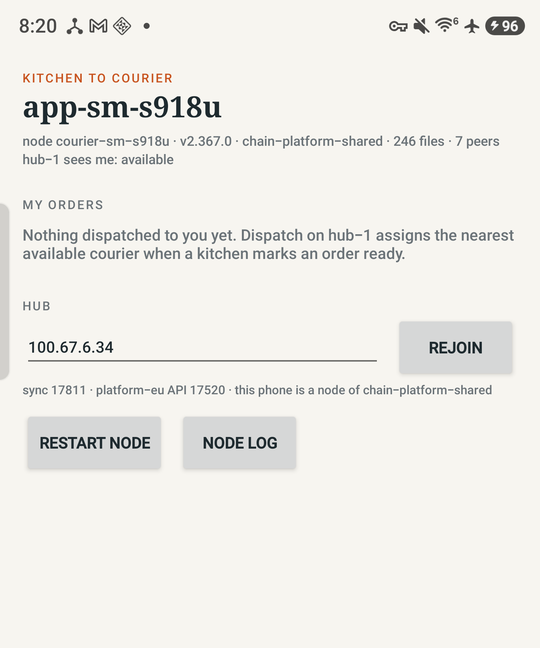
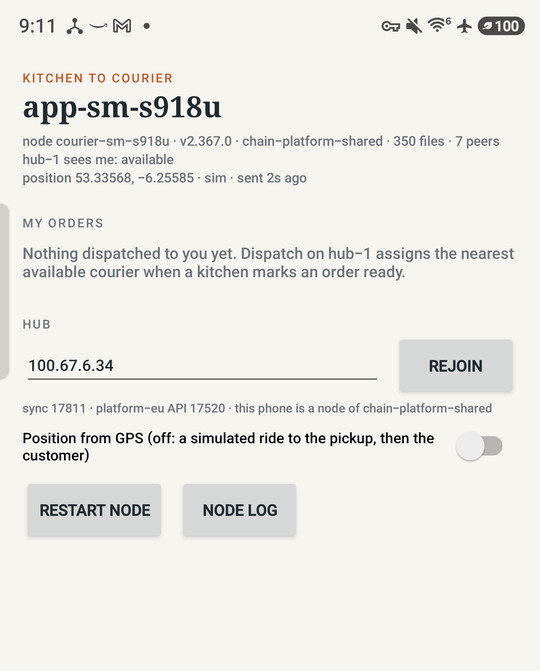
The courier's position every 5 seconds, so a customer can track it
The couriers document's location is "a geo point, set by courier app" in
the build sheet, and nothing set it. The foreground service now writes it
every 5 s onto platform-eu — the same document dispatch runs its
nearest-courier query on, so the position feeds assignment as well as
tracking. Two modes: a simulated ride at 8 m/s toward the order's next
point (the pickup while ready, the customer once collected, back toward
the hub area when idle), the default because the fleet's addresses are in
Dublin; or the phone's GPS fixes behind a switch and the location
permission. The position survives a restart, and the card shows how far
the courier still has to go.

Measured against the MVP fleet: 40 m every 5 s, each fix 5 s old at the
platform, read back by the MVP's new sims/track.mjs.

Claude-Session: https://claude.ai/code/session_01JTEEzAK5s1sBBuDzpcijis

diff --git a/app/src/main/java/ie/unidatum/courier/Courier.kt b/app/src/main/java/ie/unidatum/courier/Courier.kt
@@ -17,7 +17,15 @@ import java.time.Instant
  */
 data class MenuItem(val name: String, val priceCents: Long)
 
-class Courier(ctx: Context) {
+class Courier private constructor(ctx: Context) {
+    companion object {
+        @Volatile private var one: Courier? = null
+        /** One courier per process: the activity and the service share its state (position, the orders last read). */
+        fun get(ctx: Context): Courier = one ?: synchronized(this) { one ?: Courier(ctx.applicationContext).also { one = it } }
+        /** Where the app starts the courier in the demo: hub-1's pickup area, so dispatch's $near finds it first. */
+        val HOME = doubleArrayOf(-6.32, 53.35)
+        const val SIM_SPEED_MPS = 8.0   // about 29 km/h, a brisk e-bike; the demo's clock
+    }
     val prefs = ctx.getSharedPreferences("courier", Context.MODE_PRIVATE)
     var hubHost: String
         get() = prefs.getString("hubHost", "100.67.6.34")!!
@@ -25,6 +33,10 @@ class Courier(ctx: Context) {
     val hubSyncPort get() = prefs.getInt("hubSyncPort", 17811)
     val hubEuPort get() = prefs.getInt("hubEuPort", 17520)
     val hubId = "hub-1"
+    /** "sim" (default: the ride is simulated at SIM_SPEED_MPS toward the pickup, then the customer) or "gps" (the phone's fixes). */
+    var locationMode: String
+        get() = prefs.getString("locMode", "sim")!!
+        set(v) { prefs.edit().putString("locMode", v).apply() }
     /** The courier's id: app-<model>. The MVP's simulated couriers are hub-N-cNN; the sim leaves other ids' orders alone. */
     val id: String = "app-" + android.os.Build.MODEL.lowercase().replace(Regex("[^a-z0-9]+"), "-").trim('-')
     val local = Api("http://127.0.0.1:${NodeService.UI_PORT}")
@@ -36,8 +48,55 @@ class Courier(ctx: Context) {
 
     fun now(): String = Instant.now().toString()
 
-    /** Where the courier is: fixed at hub-1's pickup point in this demo (no GPS); what the couriers document carries. */
-    val location: JSONObject get() = JSONObject().put("type", "Point").put("coordinates", JSONArray().put(-6.32).put(53.35))
+    /** Where the courier is now, [lon, lat]: the simulated ride's point or the last GPS fix. Kept across restarts,
+     *  so reinstalling the app mid-ride does not teleport the courier back to the hub. */
+    @Volatile var lon = prefs.getFloat("lon", HOME[0].toFloat()).toDouble()
+    @Volatile var lat = prefs.getFloat("lat", HOME[1].toFloat()).toDouble()
+    private fun remember() { prefs.edit().putFloat("lon", lon.toFloat()).putFloat("lat", lat.toFloat()).apply() }
+    val location: JSONObject get() = JSONObject().put("type", "Point").put("coordinates", JSONArray().put(lon).put(lat))
+    /** The orders as last read, for the ride to know where it is going. */
+    @Volatile var lastOrders: List<JSONObject> = emptyList()
+    @Volatile var lastPublished = 0L
+    @Volatile var publishError: String? = null
+
+    /** A GPS fix from the phone (gps mode only). */
+    fun fix(newLon: Double, newLat: Double) { lon = newLon; lat = newLat; remember() }
+
+    /** The simulated ride: one 5-second step toward where the order says to go — the pickup while ready, the customer once
+     *  collected, nowhere when idle. Straight line at SIM_SPEED_MPS; a courier's route is the maps app's business. */
+    fun rideStep(seconds: Double) {
+        val o = lastOrders.sortedBy { it.optString("ready_at") }.firstOrNull()
+        // With an order: the pickup while it is ready, the customer once collected. Without one: back toward the hub's
+        // area, which is where a courier waits between deliveries — and where dispatch looks for the nearest one.
+        val to = o?.let { (if (it.optString("status") == "ready") it.optJSONObject("pickup") else it.optJSONObject("delivery"))?.optJSONObject("location")?.optJSONArray("coordinates") }
+        val tLon = to?.optDouble(0) ?: HOME[0]; val tLat = to?.optDouble(1) ?: HOME[1]
+        val mPerDegLat = 111_320.0; val mPerDegLon = mPerDegLat * Math.cos(Math.toRadians(lat))
+        val dx = (tLon - lon) * mPerDegLon; val dy = (tLat - lat) * mPerDegLat
+        val dist = Math.hypot(dx, dy)
+        val step = SIM_SPEED_MPS * seconds
+        if (dist <= step) { lon = tLon; lat = tLat } else {
+            lon += dx / dist * step / mPerDegLon
+            lat += dy / dist * step / mPerDegLat
+        }
+        remember()
+    }
+
+    /** The position onto the couriers document on platform-eu: what dispatch queries and what a customer app reads to
+     *  draw the courier. Latest wins; a missed write is a missed position, nothing to queue. */
+    fun publishLocation() {
+        try {
+            hubEu.update("couriers", JSONObject().put("_id", id), JSONObject().put("location", location).put("updated_at", now()))
+            lastPublished = System.currentTimeMillis(); publishError = null
+        } catch (e: Exception) { publishError = e.message }
+    }
+
+    /** Metres from the courier to the point on the order it is heading for, for the card. */
+    fun metresToTarget(o: JSONObject): Double? {
+        val to = (if (o.optString("status") == "ready") o.optJSONObject("pickup") else o.optJSONObject("delivery"))
+            ?.optJSONObject("location")?.optJSONArray("coordinates") ?: return null
+        val mPerDegLat = 111_320.0; val mPerDegLon = mPerDegLat * Math.cos(Math.toRadians(lat))
+        return Math.hypot((to.optDouble(0) - lon) * mPerDegLon, (to.optDouble(1) - lat) * mPerDegLat)
+    }
 
     /** Peer with the hub's shared node and follow the orders collection. Idempotent. */
     fun join(): String {
@@ -69,7 +128,9 @@ class Courier(ctx: Context) {
     /** Orders dispatched to me that are not delivered yet, read from the phone's own copy. */
     fun myOrders(): List<JSONObject> {
         local.ensureLocal("platform_orders.")
-        return local.find("platform_orders", JSONObject().put("courier_id", id).put("status", JSONObject().put("\$in", JSONArray().put("ready").put("collected"))), 20)
+        val o = local.find("platform_orders", JSONObject().put("courier_id", id).put("status", JSONObject().put("\$in", JSONArray().put("ready").put("collected"))), 20)
+        lastOrders = o
+        return o
     }
 
     fun collected(orderId: String) {

diff --git a/app/src/main/java/ie/unidatum/courier/NodeService.kt b/app/src/main/java/ie/unidatum/courier/NodeService.kt
@@ -7,7 +7,12 @@ import android.app.PendingIntent
 import android.app.Service
 import android.content.Context
 import android.content.Intent
+import android.location.Location
+import android.location.LocationListener
+import android.location.LocationManager
+import android.os.Handler
 import android.os.IBinder
+import android.os.Looper
 import android.util.Log
 import java.io.File
 import java.util.concurrent.atomic.AtomicReference
@@ -42,9 +47,51 @@ class NodeService : Service() {
     override fun onBind(intent: Intent?): IBinder? = null
 
     override fun onStartCommand(intent: Intent?, flags: Int, startId: Int): Int {
-        startForeground(1, notification())
+        // Data-sync always; the location type only once the person has granted the permission (Android 14+ refuses it otherwise).
+        val hasLoc = checkSelfPermission(android.Manifest.permission.ACCESS_FINE_LOCATION) == android.content.pm.PackageManager.PERMISSION_GRANTED
+        val type = android.content.pm.ServiceInfo.FOREGROUND_SERVICE_TYPE_DATA_SYNC or
+            (if (hasLoc) android.content.pm.ServiceInfo.FOREGROUND_SERVICE_TYPE_LOCATION else 0)
+        startForeground(1, notification(), type)
         if (!running()) Thread { run() }.start()
+        if (!positionLoop) { positionLoop = true; Thread { positions() }.start() }
         return START_STICKY
+    }
+
+    @Volatile private var positionLoop = false
+    private var gps: LocationListener? = null
+
+    /** Every 5 s: where the courier is, onto the couriers document. Simulated by default — the ride moves toward the order's
+     *  next point — or the phone's GPS fixes when the mode says so. Runs as long as the service does, screen off included. */
+    private fun positions() {
+        val c = Courier.get(this)
+        var mode = ""
+        while (positionLoop) {
+            try {
+                if (c.locationMode != mode) { mode = c.locationMode; setGps(mode == "gps", c) ; logLine("position: $mode") }
+                if (mode == "sim") { if (c.joined) try { c.myOrders() } catch (_: Exception) {}; c.rideStep(5.0) }
+                if (c.registered) c.publishLocation()
+            } catch (e: Exception) { logLine("position: ${e.message}") }
+            Thread.sleep(5000)
+        }
+    }
+
+    private fun setGps(on: Boolean, c: Courier) {
+        val lm = getSystemService(LocationManager::class.java)
+        gps?.let { lm.removeUpdates(it); gps = null }
+        if (!on) return
+        if (checkSelfPermission(android.Manifest.permission.ACCESS_FINE_LOCATION) != android.content.pm.PackageManager.PERMISSION_GRANTED) {
+            logLine("position: gps mode needs the location permission; staying where the last fix or the ride left off"); return
+        }
+        val l = object : LocationListener {
+            override fun onLocationChanged(loc: Location) { c.fix(loc.longitude, loc.latitude) }
+            @Deprecated("") override fun onStatusChanged(p: String?, s: Int, e: android.os.Bundle?) {}
+            override fun onProviderEnabled(p: String) {}
+            override fun onProviderDisabled(p: String) {}
+        }
+        gps = l
+        Handler(Looper.getMainLooper()).post {
+            try { lm.requestLocationUpdates(LocationManager.GPS_PROVIDER, 5000L, 0f, l) } catch (e: Exception) { logLine("position: gps: ${e.message}") }
+        }
     }
 
     private fun run() {
@@ -77,6 +124,8 @@ class NodeService : Service() {
     }
 
     override fun onDestroy() {
+        positionLoop = false
+        gps?.let { getSystemService(LocationManager::class.java).removeUpdates(it) }
         process.get()?.destroy(); process.set(null)
         super.onDestroy()
     }

diff --git a/app/src/main/java/ie/unidatum/courier/MainActivity.kt b/app/src/main/java/ie/unidatum/courier/MainActivity.kt
@@ -9,6 +9,7 @@ import android.os.Looper
 import android.view.View
 import android.widget.Button
 import android.widget.EditText
+import android.widget.Switch
 import android.widget.TextView
 import androidx.appcompat.app.AppCompatActivity
 import androidx.recyclerview.widget.LinearLayoutManager
@@ -26,14 +27,23 @@ class MainActivity : AppCompatActivity() {
     override fun onCreate(savedInstanceState: Bundle?) {
         super.onCreate(savedInstanceState)
         setContentView(R.layout.activity_main)
-        courier = Courier(this)
+        courier = Courier.get(this)
         if (Build.VERSION.SDK_INT >= 33 && checkSelfPermission(Manifest.permission.POST_NOTIFICATIONS) != PackageManager.PERMISSION_GRANTED)
             requestPermissions(arrayOf(Manifest.permission.POST_NOTIFICATIONS), 1)
         findViewById<TextView>(R.id.courierId).text = courier.id
         findViewById<EditText>(R.id.hubHost).setText(courier.hubHost)
         adapter = OrdersAdapter(onCollected = { act("collected ${it}") { courier.collected(it) } },
                                 onDelivered = { act("delivered ${it}") { courier.delivered(it) } },
-                                myLocation = { JSONObject().put("location", courier.location) })
+                                myLocation = { JSONObject().put("location", courier.location) },
+                                distance = { courier.metresToTarget(it) })
+        findViewById<Switch>(R.id.gpsMode).apply {
+            isChecked = courier.locationMode == "gps"
+            setOnCheckedChangeListener { _, on ->
+                if (on && checkSelfPermission(Manifest.permission.ACCESS_FINE_LOCATION) != PackageManager.PERMISSION_GRANTED)
+                    requestPermissions(arrayOf(Manifest.permission.ACCESS_FINE_LOCATION), 2)
+                courier.locationMode = if (on) "gps" else "sim"
+            }
+        }
         findViewById<RecyclerView>(R.id.orders).apply { layoutManager = LinearLayoutManager(this@MainActivity); adapter = this@MainActivity.adapter }
         findViewById<Button>(R.id.saveHub).setOnClickListener {
             courier.hubHost = findViewById<EditText>(R.id.hubHost).text.toString().trim()
@@ -86,6 +96,8 @@ class MainActivity : AppCompatActivity() {
     private fun render(status: String, orders: List<JSONObject>, menu: Map<String, MenuItem>, hubSeen: String) = ui.post {
         findViewById<TextView>(R.id.nodeStatus).text = status
         findViewById<TextView>(R.id.hubSeen).text = if (hubSeen.isEmpty()) "" else "hub-1 sees me: $hubSeen"
+        val age = if (courier.lastPublished == 0L) "not yet" else "${(System.currentTimeMillis() - courier.lastPublished) / 1000}s ago"
+        findViewById<TextView>(R.id.position).text = "position ${"%.5f".format(courier.lat)}, ${"%.5f".format(courier.lon)} · ${courier.locationMode} · sent $age" + (courier.publishError?.let { " · $it" } ?: "")
         findViewById<TextView>(R.id.empty).visibility = if (orders.isEmpty()) View.VISIBLE else View.GONE
         adapter.submit(orders, menu)
         findViewById<TextView>(R.id.log).text = synchronized(NodeService.log) { NodeService.log.takeLast(60).joinToString("\n") }

diff --git a/app/src/main/java/ie/unidatum/courier/OrdersAdapter.kt b/app/src/main/java/ie/unidatum/courier/OrdersAdapter.kt
@@ -10,7 +10,7 @@ import android.widget.TextView
 import androidx.recyclerview.widget.RecyclerView
 import org.json.JSONObject
 
-class OrdersAdapter(val onCollected: (String) -> Unit, val onDelivered: (String) -> Unit, val myLocation: () -> JSONObject?) : RecyclerView.Adapter<OrdersAdapter.VH>() {
+class OrdersAdapter(val onCollected: (String) -> Unit, val onDelivered: (String) -> Unit, val myLocation: () -> JSONObject?, val distance: (JSONObject) -> Double?) : RecyclerView.Adapter<OrdersAdapter.VH>() {
     private var items: List<JSONObject> = emptyList()
     private var menu: Map<String, MenuItem> = emptyMap()
     fun submit(o: List<JSONObject>, m: Map<String, MenuItem>) { items = o.sortedBy { it.optString("ready_at") }; menu = m; notifyDataSetChanged() }
@@ -58,6 +58,9 @@ class OrdersAdapter(val onCollected: (String) -> Unit, val onDelivered: (String)
         // To the pickup from where the courier is (the position the app registered; a real app would use GPS), then to the customer from the pickup.
         val from = if (status == "ready") myLocation() else pickup
         route.text = if (status == "ready") "Route to pickup" else "Route to customer"
+        val d = distance(o)
+        h.itemView.findViewById<TextView>(R.id.distance).text = if (d == null) "" else
+            (if (status == "ready") "to the pickup  " else "to the customer  ") + (if (d >= 1000) "%.1f km".format(d / 1000) else "${d.toInt()} m")
         route.isEnabled = to != null
         route.setOnClickListener {
             val ctx = h.itemView.context

diff --git a/README.md b/README.md
@@ -36,18 +36,19 @@ network as the machine running compose.
 
 ### 1. Joined and waiting
 
-<img src="docs/screenshots/1-idle.png" width="360" alt="The app idle: node status, hub-1 sees me available, no orders">
+<img src="docs/screenshots/1-idle.png" width="360" alt="The app idle: node status, position, hub-1 sees me available, no orders">
 
 The node is up inside the app: `courier-sm-s918u`, engine v2.367.0, a member
-of `chain-platform-shared`, holding 246 files (the members of
-`platform_orders` and `menu_published` it has replicated) and peered with 7 nodes (hub-1 and,
-through it, the rest of the fleet). "hub-1 sees me: available" is read from
-the platform's `couriers` collection on hub-1's other library. Nothing has
-been dispatched.
+of `chain-platform-shared`, holding 350 files (the members of
+`platform_orders` and `menu_published` it has replicated) and peered with 7
+nodes (hub-1 and, through it, the rest of the fleet). "hub-1 sees me:
+available" is read back from the platform's `couriers` collection on hub-1's
+other library, and the line under it is the position this app wrote there 2
+seconds ago. Nothing has been dispatched.
 
 ### 2. Dispatched
 
-<img src="docs/screenshots/2-ready.png" width="360" alt="An order dispatched to the phone: named items, pickup and delivery addresses, Route to pickup and Collected buttons">
+<img src="docs/screenshots/2-ready.png" width="360" alt="An order dispatched to the phone: named items, pickup and delivery addresses, distance to the pickup, Route to pickup and Collected buttons">
 
 A customer placed an order (`sims/customer.mjs`), restaurant r2's kitchen
 accepted it and marked it ready, and hub-1's dispatch assigned it to the
@@ -55,7 +56,7 @@ nearest available courier: the phone. The hub wrote `courier_id` on the
 order and `state: assigned` on the courier document. The phone's node pulled
 the new member on its 5-second sync, the app's 3-second poll of its own node
 found an order with its id, and the card appeared. The hub's log line for it
-was `hub-1: o-live-mtz4zaod-1 -> app-sm-s918u`.
+was `hub-1: o-live-mtz5pqk0-0 -> app-sm-s918u`.
 
 The card is what a courier checks the bag against at the counter: the line
 count and total first, then each line by name. The order document itself
@@ -65,19 +66,22 @@ library. The phone replicates that table too, so the lookup is local. A
 line that appears twice on the order is folded into one line with the
 quantity summed. Below the lines are the two addresses the order carries:
 `pickup` (the restaurant's, written by the platform when it created the
-order) and `delivery` (the customer's).
+order) and `delivery` (the customer's), and how far the courier still is
+from the one it is heading for.
 
 ### 3. Collected
 
-<img src="docs/screenshots/3-collected.png" width="360" alt="The order after Collected: status collected, Route to customer and Delivered buttons">
+<img src="docs/screenshots/3-collected.png" width="360" alt="The order after Collected: status collected, 0 m to the customer, Route to customer and Delivered buttons">
 
 The courier tapped Collected. The app ran one update on the node in the
 phone: `{_id, status: ready} $set {status: collected, collected_at}`. The
-status pill changed from the phone's own read, and the route button turned
-to the customer. hub-1 saw the change 1.4 to 2.0 s later across the runs
-(measured by polling hub-1's API from the host until the document
-changed). Delivered is the same shape and also sets the courier document
-back to `available` on the platform; it reached hub-1 in 1.5 to 2.0 s.
+status pill changed from the phone's own read, the route button turned to
+the customer, and the simulated ride turned with it — the shot above is the
+courier at the customer's door, 0 m to go. hub-1 saw the collect 1.4 to 2.0 s
+later across the runs, measured by polling hub-1's API from the host until
+the document changed. Delivered is the same shape and also sets the courier
+document back to `available` on the platform; it reached hub-1 in 1.5 s, and
+the courier then rode back toward the hub area on its own.
 
 ### The route
 
@@ -91,6 +95,43 @@ to Capel Street); after, from the pickup to the customer (right: 3 min,
 API key; any maps app that takes a directions URL will do, and the browser
 otherwise. In this demo the courier's position is the fixed point the app
 registered at hub-1's pickup area, since the phone was not in Dublin.
+
+### The courier on the map
+
+Every 5 seconds the app writes where the courier is onto its `couriers`
+document on platform-eu — the field the build sheet already specifies as
+"a geo point, set by courier app". That is the same document dispatch runs
+its nearest-courier query on, so the position is not a side channel: it
+feeds the assignment as well as the tracking.
+
+A customer app reads the order, sees `courier_id`, reads that courier
+document and draws the point. The MVP's `sims/track.mjs` does exactly that
+from the command line:
+
+```
+01:58:20  ready   app-sm-s918u at 53.33629, -6.27028 (5s old)  423 m to the pickup
+01:58:25  ready   app-sm-s918u at 53.33614, -6.26973 (5s old)  383 m to the pickup
+01:58:30  ready   app-sm-s918u at 53.33599, -6.26918 (5s old)  343 m to the pickup
+01:58:35  ready   app-sm-s918u at 53.33584, -6.26864 (5s old)  303 m to the pickup
+```
+
+40 metres every 5 seconds, and every fix 5 seconds old: the write cadence
+end to end, phone to platform.
+
+**Two modes**, the switch at the bottom of the screen:
+
+- **Simulated (the default).** The courier rides a straight line at 8 m/s
+  (about 29 km/h) toward whatever the order says is next: the pickup while
+  it is ready, the customer once collected, and back toward the hub's area
+  when there is no order, which is where dispatch looks for the nearest
+  courier. The position survives a restart of the app.
+- **GPS.** The phone's own fixes, through the foreground service, once the
+  location permission is granted. This is the product path. It is off by
+  default because the demo fleet's addresses are in Dublin and a phone
+  anywhere else would never be the nearest courier to hub-1.
+
+The card shows the distance to whichever point the courier is heading for,
+computed from the same position.
 
 ### 4. What the node saw
 
@@ -160,6 +201,7 @@ The app talks to it at `http://127.0.0.1:7480` with the same calls the MVP's
 | 4 | `POST /api/sql SELECT restaurant_id, item_id, name, price_cents FROM menu_published`, cached a minute, to name the lines | the phone's node |
 | 5 | `POST /api/doc/update {_id, status: ready} $set {status: collected, collected_at}` | the phone's node |
 | 5 | `$set {status: delivered, delivered_at}`, then `couriers $set {state: available, current_order: null}` | the phone's node; platform-eu |
+| every 5 s | `couriers $set {location: {type: Point, coordinates}, updated_at}` | platform-eu, hub-1's API |
 
 Before a write the app fetches any member of the collection the node does not
 hold yet (`/api/files` + `/api/fetch`), as the MVP's `ensureLocal` does.
@@ -186,7 +228,9 @@ same network can query the phone's copy), 47800 sync, 47801 DHT.
 ## Limits
 
 - arm64 only, Android 10+; the engine is a static Go binary, DuckDB is the musl build.
-- The courier's location is fixed at hub-1's pickup; a real app would write GPS fixes to its `couriers` document and route from them.
+- Position defaults to a simulated ride, because the demo's addresses are in Dublin. GPS mode is a switch away and uses the phone's real fixes.
+- Positions are not signed. The build sheet wants the courier app's key on `location` and `state`, verified by the hub; that is not built.
+- Only the latest position is kept, on the courier document. A position history for analytics would be an event stream in its own table.
 - Until the menu table's members have landed, the names come through hub-1 (the node answers the query by asking its peers), and a pickup with no network would show item ids. Landing them needs unidatum after v2.367.0: the phone sees head-office and hub-1 at one address on two ports, and older engines kept only the first, unpublished one (fixed in peer-to-peer-db PR #1046).
 - One hub (`hub-1`) and the MVP's port numbers are constants in `Courier.kt`; only the host is editable in the app.
 - The phone reaches the rest of the fleet only through hub-1, since only hub-1's shared port is published by compose.
